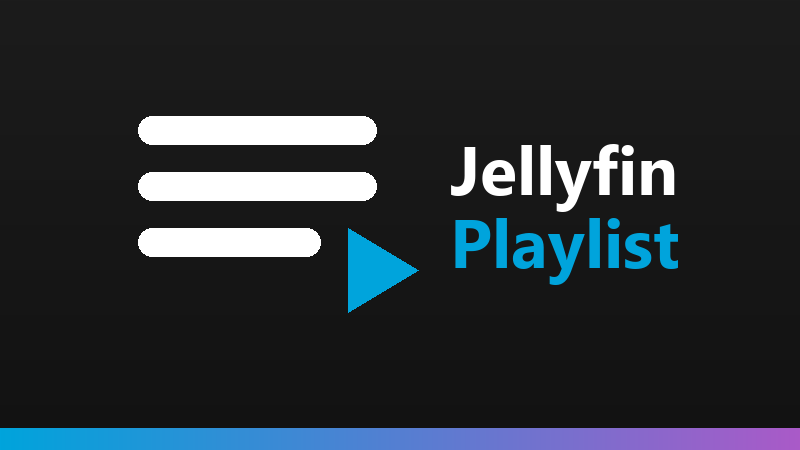
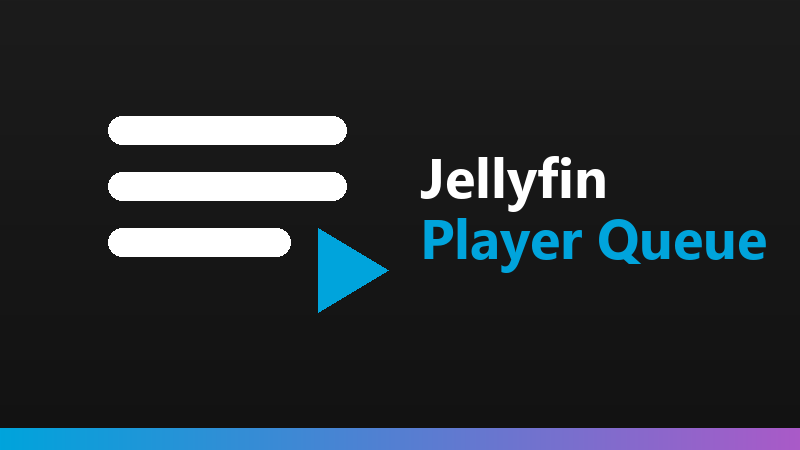
v0.3.2 : renommage en Jellyfin Player Queue (dépôt jellyfin-player-queue)

diff --git a/Jellyfin.Plugin.QueueOsd/Configuration/configPage.html b/Jellyfin.Plugin.QueueOsd/Configuration/configPage.html
@@ -1,7 +1,7 @@
 <!DOCTYPE html>
 <html>
 <head>
-    <title>Jellyfin Playlist</title>
+    <title>Jellyfin Player Queue</title>
 </head>
 <body>
     <div id="QueueOsdConfigPage" data-role="page" class="page type-interior pluginConfigurationPage" data-require="emby-input,emby-button,emby-checkbox">
@@ -9,7 +9,7 @@
             <div class="content-primary">
                 <form id="QueueOsdConfigForm">
                     <div class="verticalSection">
-                        <h2 class="sectionTitle">Jellyfin Playlist</h2>
+                        <h2 class="sectionTitle">Jellyfin Player Queue</h2>
                         <p>
                             Bouton <b>file de lecture</b> dans le lecteur vidéo web (icône <span class="material-icons" style="vertical-align:middle">playlist_play</span> à côté des réglages, ou touche <b>Q</b>) :
                             saison en cours avec navigation entre saisons pour une série, file de lecture sinon. Un clic sur un épisode le lance sans quitter le lecteur.
@@ -43,10 +43,10 @@
                         <p class="fieldDescription">
                             Le script est injecté dans <code>index.html</code> à la volée (aucune écriture sur le disque) et servi par
                             <code>/QueueOsd/jellyfin-queue-osd.js</code>. Si l'icône n'apparaît pas : rechargez la page avec Ctrl+F5, puis vérifiez la console (F12) :
-                            <code>[JellyfinPlaylist] v… – playbackManager found</code>.
+                            <code>[PlayerQueue] v… – playbackManager found</code>.
                         </p>
                         <p class="fieldDescription">
-                            Source, issues : <a is="emby-linkbutton" class="button-link" href="https://github.com/k1k4k/jellyfin-playlist" target="_blank" rel="noopener">github.com/k1k4k/jellyfin-playlist</a>
+                            Source, issues : <a is="emby-linkbutton" class="button-link" href="https://github.com/k1k4k/jellyfin-player-queue" target="_blank" rel="noopener">github.com/k1k4k/jellyfin-player-queue</a>
                         </p>
                     </div>
                 </form>

diff --git a/jellyfin-queue-osd.js b/jellyfin-queue-osd.js
@@ -1,6 +1,6 @@
 /*!
- * Jellyfin Playlist — v0.3.1
- * https://github.com/k1k4k/jellyfin-playlist
+ * Jellyfin Player Queue — v0.3.2
+ * https://github.com/k1k4k/jellyfin-player-queue
  *
  * Ajoute une icône "file de lecture" dans le lecteur vidéo web de Jellyfin.
  * Le panneau liste les éléments de la file (épisodes suivants, playlist…) ;
@@ -25,10 +25,10 @@
     'use strict';
 
     if (window.__jfQueueOsd) return;
-    var VERSION = '0.3.1';
+    var VERSION = '0.3.2';
     window.__jfQueueOsd = { version: VERSION };
 
-    var TAG = '[JellyfinPlaylist]';
+    var TAG = '[PlayerQueue]';
     var pm = null;            // playbackManager (singleton)
     var panel = null;
     var refreshTimer = null;

diff --git a/scripts/package.py b/scripts/package.py
@@ -2,9 +2,9 @@
 """Empaquète le plugin et met à jour le manifest du dépôt de plugins Jellyfin.
 
     python scripts/package.py --target jf12 --dll Jellyfin.Plugin.QueueOsd/bin/Release/net10.0/Jellyfin.Plugin.QueueOsd.dll \
-        --repo k1k4k/jellyfin-playlist --tag v0.3.0 [--changelog "..."]
+        --repo k1k4k/jellyfin-player-queue --tag v0.3.0 [--changelog "..."]
 
-- crée dist/jellyfin-playlist_<version>_<target>.zip (la DLL à la racine du zip)
+- crée dist/jellyfin-player-queue_<version>_<target>.zip (la DLL à la racine du zip)
 - calcule le MD5 attendu par Jellyfin
 - ajoute/remplace l'entrée de version dans manifest.json (jf12) ou manifest-10.11.json (jf10)
 Le sourceUrl pointe vers l'asset de la release GitHub du tag.
@@ -18,7 +18,7 @@ import re
 import zipfile
 
 GUID = "ae203062-4b00-4c07-a7f6-83e69982d951"
-NAME = "Jellyfin Playlist"
+NAME = "Jellyfin Player Queue"
 TARGETS = {
     "jf12": {"manifest": "manifest.json", "targetAbi": "12.0.0.0", "framework": "net10.0"},
     "jf10": {"manifest": "manifest-10.11.json", "targetAbi": "10.11.0.0", "framework": "net9.0"},
@@ -48,7 +48,7 @@ def main():
     version = read_version(os.path.join(root, "Jellyfin.Plugin.QueueOsd", "Jellyfin.Plugin.QueueOsd.csproj"))
 
     os.makedirs(args.out, exist_ok=True)
-    zip_name = f"jellyfin-playlist_{version}_{args.target}.zip"
+    zip_name = f"jellyfin-player-queue_{version}_{args.target}.zip"
     zip_path = os.path.join(args.out, zip_name)
     with zipfile.ZipFile(zip_path, "w", zipfile.ZIP_DEFLATED) as z:
         z.write(args.dll, os.path.basename(args.dll))

diff --git a/Jellyfin.Plugin.QueueOsd/Services/ScriptInjectionStartupFilter.cs b/Jellyfin.Plugin.QueueOsd/Services/ScriptInjectionStartupFilter.cs
@@ -7,7 +7,7 @@ using Microsoft.Extensions.Logging;
 namespace Jellyfin.Plugin.QueueOsd.Services;
 
 /// <summary>
-/// Injecte la balise &lt;script&gt; de Jellyfin Playlist dans l'index.html de jellyfin-web au moment
+/// Injecte la balise &lt;script&gt; de Jellyfin Player Queue dans l'index.html de jellyfin-web au moment
 /// de la requête (middleware ASP.NET enregistré via <see cref="IStartupFilter"/>).
 /// Aucune écriture sur disque : pas de problème de permissions, et rien à refaire
 /// après une mise à jour de Jellyfin. En cas d'erreur, la réponse d'origine est servie telle quelle.
@@ -118,14 +118,14 @@ public class ScriptInjectionStartupFilter : IStartupFilter
                     html = string.Concat(html.AsSpan(0, headClose), BuildScriptTag(), html.AsSpan(headClose));
                     if (Interlocked.Exchange(ref _loggedOnce, 1) == 0)
                     {
-                        _logger.LogInformation("Jellyfin Playlist: script tag injected into index.html (request-time middleware).");
+                        _logger.LogInformation("Jellyfin Player Queue: script tag injected into index.html (request-time middleware).");
                     }
                 }
             }
         }
         catch (Exception ex)
         {
-            _logger.LogWarning(ex, "Jellyfin Playlist: injection failed, serving original index.html.");
+            _logger.LogWarning(ex, "Jellyfin Player Queue: injection failed, serving original index.html.");
         }
 
         var bytes = Encoding.UTF8.GetBytes(html);

diff --git a/Jellyfin.Plugin.QueueOsd/Plugin.cs b/Jellyfin.Plugin.QueueOsd/Plugin.cs
@@ -9,7 +9,7 @@ using MediaBrowser.Model.Serialization;
 namespace Jellyfin.Plugin.QueueOsd;
 
 /// <summary>
-/// Jellyfin Playlist : ajoute un bouton "file de lecture / saisons" au lecteur vidéo web de Jellyfin.
+/// Jellyfin Player Queue : ajoute un bouton "file de lecture / saisons" au lecteur vidéo web de Jellyfin.
 /// Le script client (jellyfin-queue-osd.js) est embarqué dans la DLL, servi par
 /// <see cref="Controllers.QueueOsdController"/> et injecté dans index.html à la volée par
 /// <see cref="Services.ScriptInjectionStartupFilter"/>. Rien n'est écrit sur le disque.
@@ -30,7 +30,7 @@ public class Plugin : BasePlugin<PluginConfiguration>, IHasWebPages
 
     public static Plugin? Instance { get; private set; }
 
-    public override string Name => "Jellyfin Playlist";
+    public override string Name => "Jellyfin Player Queue";
 
     public override Guid Id => Guid.Parse("ae203062-4b00-4c07-a7f6-83e69982d951");
 

diff --git a/Jellyfin.Plugin.QueueOsd/Configuration/PluginConfiguration.cs b/Jellyfin.Plugin.QueueOsd/Configuration/PluginConfiguration.cs
@@ -2,7 +2,7 @@ using MediaBrowser.Model.Plugins;
 
 namespace Jellyfin.Plugin.QueueOsd.Configuration;
 
-/// <summary>Configuration du plugin (Tableau de bord → Plugins → Jellyfin Playlist).</summary>
+/// <summary>Configuration du plugin (Tableau de bord → Plugins → Jellyfin Player Queue).</summary>
 public class PluginConfiguration : BasePluginConfiguration
 {
     /// <summary>

diff --git a/README.md b/README.md
@@ -1,4 +1,4 @@
-# Jellyfin Playlist
+# Jellyfin Player Queue
 
 Une icône **file de lecture** dans le lecteur vidéo web de Jellyfin : pour une série, la saison en cours avec navigation entre saisons « à la Netflix » ; sinon la file de lecture. Un clic lance l'épisode voulu sans quitter le lecteur.
 
@@ -25,17 +25,17 @@ Une icône **file de lecture** dans le lecteur vidéo web de Jellyfin : pour une
 
 Quatre méthodes, de la plus simple à la plus manuelle. Dans tous les cas, rechargez la page Jellyfin avec `Ctrl+F5` après l'installation.
 
-### 1. Plugin Jellyfin Playlist (recommandé)
+### 1. Plugin Jellyfin Player Queue (recommandé)
 
 Un vrai plugin Jellyfin : le script est embarqué dans le plugin, servi par le serveur et injecté dans `index.html` **à la volée** (aucune écriture sur le disque, rien à refaire après une mise à jour de Jellyfin, pas de problème de permissions Docker). Mises à jour via le tableau de bord.
 
 1. Tableau de bord → Plugins → Dépôts → « + » et ajoutez l'URL correspondant à votre version de Jellyfin :
-   - **Jellyfin 12.x** : `https://raw.githubusercontent.com/k1k4k/jellyfin-playlist/main/manifest.json`
-   - **Jellyfin 10.11.x** : `https://raw.githubusercontent.com/k1k4k/jellyfin-playlist/main/manifest-10.11.json`
-2. Catalogue → **Jellyfin Playlist** → Installer, puis redémarrez Jellyfin.
-3. `Ctrl+F5` dans le navigateur. La page de configuration du plugin (Tableau de bord → Plugins → Jellyfin Playlist) permet de désactiver le bouton sans désinstaller.
+   - **Jellyfin 12.x** : `https://raw.githubusercontent.com/k1k4k/jellyfin-player-queue/main/manifest.json`
+   - **Jellyfin 10.11.x** : `https://raw.githubusercontent.com/k1k4k/jellyfin-player-queue/main/manifest-10.11.json`
+2. Catalogue → **Jellyfin Player Queue** → Installer, puis redémarrez Jellyfin.
+3. `Ctrl+F5` dans le navigateur. La page de configuration du plugin (Tableau de bord → Plugins → Jellyfin Player Queue) permet de désactiver le bouton sans désinstaller.
 
-Installation manuelle du plugin : téléchargez le zip de la [dernière release](https://github.com/k1k4k/jellyfin-playlist/releases) (`_jf12` pour Jellyfin 12, `_jf10` pour 10.11), dézippez-le dans `<config>/plugins/QueueOsd/` et redémarrez.
+Installation manuelle du plugin : téléchargez le zip de la [dernière release](https://github.com/k1k4k/jellyfin-player-queue/releases) (`_jf12` pour Jellyfin 12, `_jf10` pour 10.11), dézippez-le dans `<config>/plugins/QueueOsd/` et redémarrez.
 
 ### 2. Plugin « JavaScript Injector »
 
@@ -82,10 +82,10 @@ Lancez une saison, une playlist, ou « Lire à partir d'ici » sur un épisode. 
 
 ## Dépannage
 
-- **Pas d'icône dans le lecteur** : ouvrez la console du navigateur (F12). Vous devez voir `[JellyfinPlaylist] v… – playbackManager found`. Si vous voyez `playbackManager not found`, la version de jellyfin-web n'est pas reconnue — ouvrez une issue avec votre version.
+- **Pas d'icône dans le lecteur** : ouvrez la console du navigateur (F12). Vous devez voir `[PlayerQueue] v… – playbackManager found`. Si vous voyez `playbackManager not found`, la version de jellyfin-web n'est pas reconnue — ouvrez une issue avec votre version.
 - **Le script n'est pas chargé du tout** (rien dans la console) : vérifiez que `index.html` contient bien la balise, et videz le cache (`Ctrl+F5`). Après une mise à jour de Jellyfin, relancez l'installation.
 - **« Aucun élément dans la file »** : vous avez lancé un film seul (pas de série, pas de playlist).
-- **Pas de saisons, juste la file** : la console affiche `[JellyfinPlaylist] refresh {...}` avec `mode: "queue"` — l'élément en cours n'est pas reconnu comme épisode d'une série ; ouvrez une issue avec cette ligne.
+- **Pas de saisons, juste la file** : la console affiche `[PlayerQueue] refresh {...}` avec `mode: "queue"` — l'élément en cours n'est pas reconnu comme épisode d'une série ; ouvrez une issue avec cette ligne.
 
 ## Développement
 
@@ -124,4 +124,4 @@ Adds a **play queue** button (`Q`) to the Jellyfin web video player, next to the
 
 Built and tested on Jellyfin **12.1.0**; should work on 10.10+/10.11 (untested). It does not patch the Jellyfin bundle — it locates the internal `playbackManager` through the webpack runtime by module content, so it is not tied to a specific build's module ids.
 
-**Install (plugin, recommended)**: Dashboard → Plugins → Repositories → add `https://raw.githubusercontent.com/k1k4k/jellyfin-playlist/main/manifest.json` (Jellyfin 12) or `.../manifest-10.11.json` (Jellyfin 10.11), install **Jellyfin Playlist** from the catalog, restart Jellyfin, `Ctrl+F5`. The plugin injects the script into `index.html` at request time (no disk writes, survives Jellyfin updates). Alternatives: paste `jellyfin-queue-osd.js` into the [JavaScript Injector](https://github.com/n00bcodr/Jellyfin-JavaScript-Injector) plugin, run `install.ps1` / `install.sh`, or add the `<script>` tag by hand.
+**Install (plugin, recommended)**: Dashboard → Plugins → Repositories → add `https://raw.githubusercontent.com/k1k4k/jellyfin-player-queue/main/manifest.json` (Jellyfin 12) or `.../manifest-10.11.json` (Jellyfin 10.11), install **Jellyfin Player Queue** from the catalog, restart Jellyfin, `Ctrl+F5`. The plugin injects the script into `index.html` at request time (no disk writes, survives Jellyfin updates). Alternatives: paste `jellyfin-queue-osd.js` into the [JavaScript Injector](https://github.com/n00bcodr/Jellyfin-JavaScript-Injector) plugin, run `install.ps1` / `install.sh`, or add the `<script>` tag by hand.
